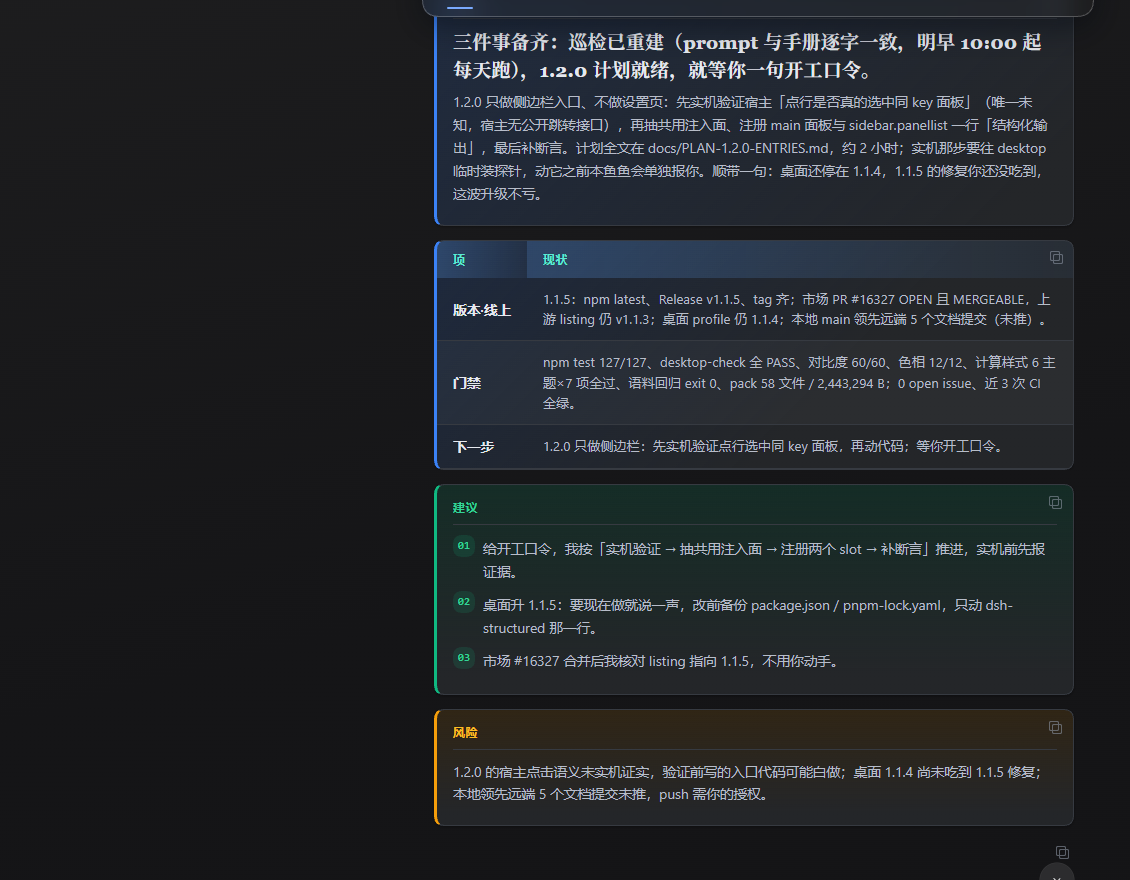
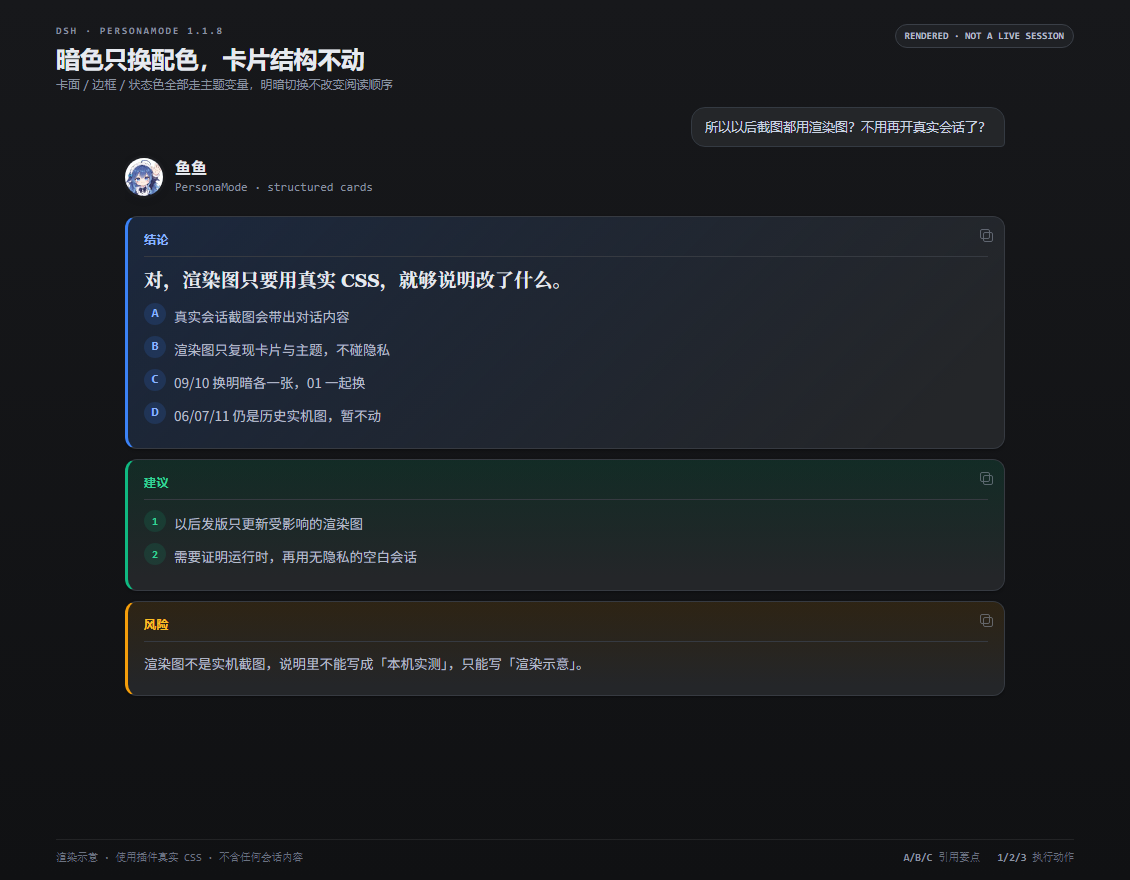
release: 1.1.9

diff --git a/docs/ACCEPTANCE-1.0.0.md b/docs/ACCEPTANCE-1.0.0.md
@@ -1,6 +1,6 @@
 # dsh-structured 验收记录（最新：1.1.8 已发布 2026-11-22；1.2.0 开发中）
 
-[1.1.8 · 结论卡要点列表 + desktop-check 真实宿主版本] 结论卡把 `conclusion.body` 的大段散文改为 `points`（1–4 条，每条一个事实、≤32 字），渲染为 A/B/C 字母圆圈；`body` 仅作历史消息兼容。建议卡编号改 `1/2/3`，风险卡锁死单句，多条风险改走 `table`。修复 `desktop-check` 假 PASS：不再信任 `~/.dsh/tmp/desktop-runtime.json`（仍记 0.2.1-rc.5），改读 Windows 卸载注册表 DisplayVersion，支持 `--host-version` / `DSH_DESKTOP_VERSION`，只拿到旧 json 时降级 WARN；`dsh.compatibility.dshReleases` 补 `0.2.2-rc.5`。门禁：129/129、对比度 80、色相 12、计算样式 8 主题块 × 10 项、desktop-check 全 PASS（真实宿主 0.2.2-rc.5）；pack 58 文件 / 1,504,236 B / unpacked 2,246,588 B。发布：2026-11-22，npm `dsh-structured@1.1.8`（shasum `16095922`）、tag `v1.1.8`（annotated，指向 `972ab31`）、Release 资产 1,504,236 B（CI `45030561522` success）、市场 PR #17827（待合并）。
+[1.1.8 · 结论卡要点列表 + desktop-check 真实宿主版本] 结论卡把 `conclusion.body` 的大段散文改为 `points`（1–4 条，每条一个事实、≤32 字），渲染为 A/B/C 字母圆圈；`body` 仅作历史消息兼容。建议卡编号改 `1/2/3`，风险卡锁死单句，多条风险改走 `table`。修复 `desktop-check` 假 PASS：不再信任 `~/.dsh/tmp/desktop-runtime.json`（仍记 0.2.1-rc.5），改读 Windows 卸载注册表 DisplayVersion，支持 `--host-version` / `DSH_DESKTOP_VERSION`，只拿到旧 json 时降级 WARN；`dsh.compatibility.dshReleases` 补 `0.2.2-rc.5`。门禁：129/129、对比度 80、色相 12、计算样式 8 主题块 × 10 项、desktop-check 全 PASS（真实宿主 0.2.2-rc.5）；pack 58 文件 / 1,504,236 B / unpacked 2,246,588 B（发布后同日截图改渲染图，仓库 pack 基线为 1,377,581 B / 2,098,449 B；npm 与 Release 资产仍是 1,504,236 B）。发布：2026-11-22，npm `dsh-structured@1.1.8`（shasum `16095922`）、tag `v1.1.8`（annotated，指向 `972ab31`）、Release 资产 1,504,236 B（CI `45030561522` success）、市场 PR #17827（待合并）。
 
 [1.1.7 · DSH 黑白原色主题] 新增 `dsh` 主题（设置页排第一项 `DSH`，默认仍是 deepseek）：面板 / 卡面 / 正文 / 边框 / 强调色全部映射到 DSH 宿主 alias 变量（`--dsw-alias-bg-*` / `label-*` / `border-*`），明暗随宿主自动切换；状态列用灰阶 + ✅/⚠/❌ 符号区分，不引入彩色。设置页主题分段增加 Neutral（含色点）。门禁：对比度 4×2 全组 80 项、色相 12 项（灰阶按 chroma 跳过）、计算样式 8 主题块 × 10 项、127 项回归全过；pack 58 文件 / 1,499,553 B。兼容 desktop 0.2.1-rc.5 已实测（engines 与 compatibility 已补）。修复：persona 中途闭合信封的 JSON 残片泄漏（真实会话 seq 432 原文回归：修复前 lead 吞入 `"},"body":"` 残片，修复后三卡正常、无 JSON 残留）；另修复无信封中间消息误挂身份头（只对 persona 回复挂头）。门禁 127/127、对比度 80、色相 12、计算样式 8×10、pack 58 文件 / 1,501,498 B。发布：2026-11-20，npm `dsh-structured@1.1.7`（shasum `b325cdd`）、tag `v1.1.7`、Release 资产 1,501,498 B（CI `597553f` success）、市场 PR #17089（待合并）。
 

diff --git a/CHANGELOG.md b/CHANGELOG.md
@@ -1,5 +1,11 @@
 # Changelog
 
+## 1.1.9 — 2026-11-22
+
+- **截图改为渲染示意**：01 / 09-theme-light / 09-theme-dark / 10-theme-dark 四张改用插件真实 CSS 与默认头像渲染，不含任何会话内容；README 前四张换成渲染图，06 / 07 / 11 收进「历史实机图」折叠区。
+- 同步修正仓库 pack 基线（截图体积变化）与截图说明；无运行时行为变更。
+- 回归：129/129 通过，pack 测试按新基线通过。
+
 ## 1.1.8 — 2026-11-22
 
 - **结论卡支持要点列表**：`conclusion.body` 那段大段散文换成 `points`（1–4 条，每条一个事实、≤32 字），渲染成 A/B/C 字母圆圈的要点行；`body` 只保留给历史消息兼容。合同同步写入 PersonaMode，模型改用要点而不是把内容揉成一段。
